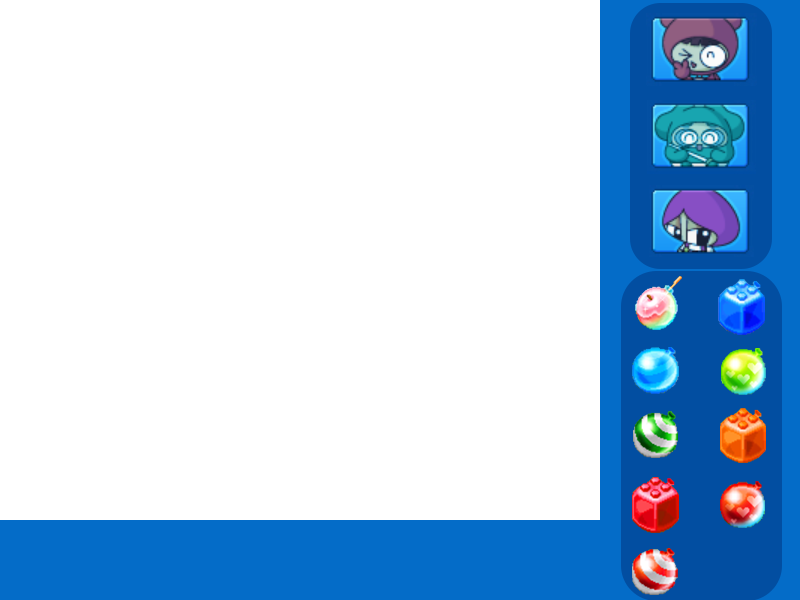
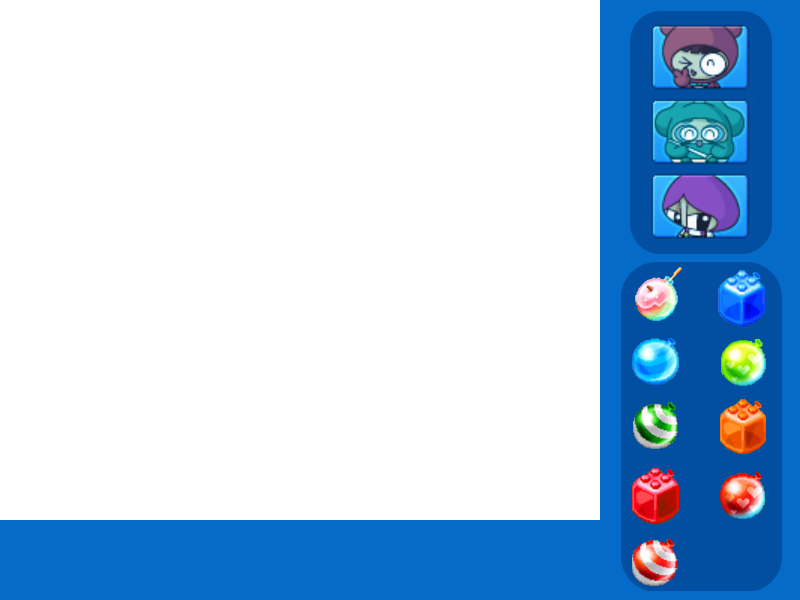
UI 변경

Changed region(s): [[0.7812, 0.0, 0.9688, 1.0]]

diff --git a/Client/Stage.cpp b/Client/Stage.cpp
@@ -26,8 +26,8 @@ HRESULT CStage::Ready_Scene()
 	}
 
 	CTextureMgr::Get_Instance()->Insert_Texture(TEX_SINGLE,
-		L"../Image/BackGround/InGame/Select.png",
-		L"InGame", L"Select", 1);
+		L"../Image/BackGround/InGame/InGame.png",
+		L"InGame", L"InGame", 1);
 
 
 	CObj*	pObj = new CTerrain;
@@ -90,7 +90,7 @@ void CStage::Render_Scene()
 
 	CDevice::Get_Instance()->Get_Sprite()->SetTransform(&matWorld);
 
-	const TEXINFO* pTexInfo = CTextureMgr::Get_Instance()->Get_Texture(L"InGame", L"Select", 1);
+	const TEXINFO* pTexInfo = CTextureMgr::Get_Instance()->Get_Texture(L"InGame", L"InGame", 1);
 
 	if (pTexInfo)
 	{

diff --git a/Client/BlockTerrain.cpp b/Client/BlockTerrain.cpp
@@ -95,8 +95,8 @@ void CBlockTerrain::RenderBlock(float fPlayerY, bool isFirst)
 		D3DXMatrixIdentity(&matWorld);
 		D3DXMatrixScaling(&matScale, 1.f, 1.f, 1.f);
 		D3DXMatrixTranslation(&matTrans,
-			m_vecTile[i]->vPos.x,
-			m_vecTile[i]->vPos.y,
+			m_vecTile[i]->vPos.x + 20,
+			m_vecTile[i]->vPos.y + 40,
 			m_vecTile[i]->vPos.z);
 
 		if (isFirst)

diff --git a/Client/Terrain.cpp b/Client/Terrain.cpp
@@ -53,8 +53,8 @@ void CTerrain::Render(void)
 		D3DXMatrixIdentity(&matWorld);
 		D3DXMatrixScaling(&matScale, 1.f, 1.f, 1.f);
 		D3DXMatrixTranslation(&matTrans,
-			m_vecTile[i]->vPos.x,
-			m_vecTile[i]->vPos.y,
+			m_vecTile[i]->vPos.x + 20,
+			m_vecTile[i]->vPos.y + 40,
 			m_vecTile[i]->vPos.z);
 
 		matWorld = matScale * matTrans;

diff --git a/Client/Player.cpp b/Client/Player.cpp
@@ -37,7 +37,6 @@ int CPlayer::Update(void)
 		m_vecTile = (dynamic_cast<CBlockTerrain*>(block)->Get_BlockTile());
 	}
 
-
 	Key_Input();
 
 	m_wstrPreStateKey = m_wstrStateKey;
